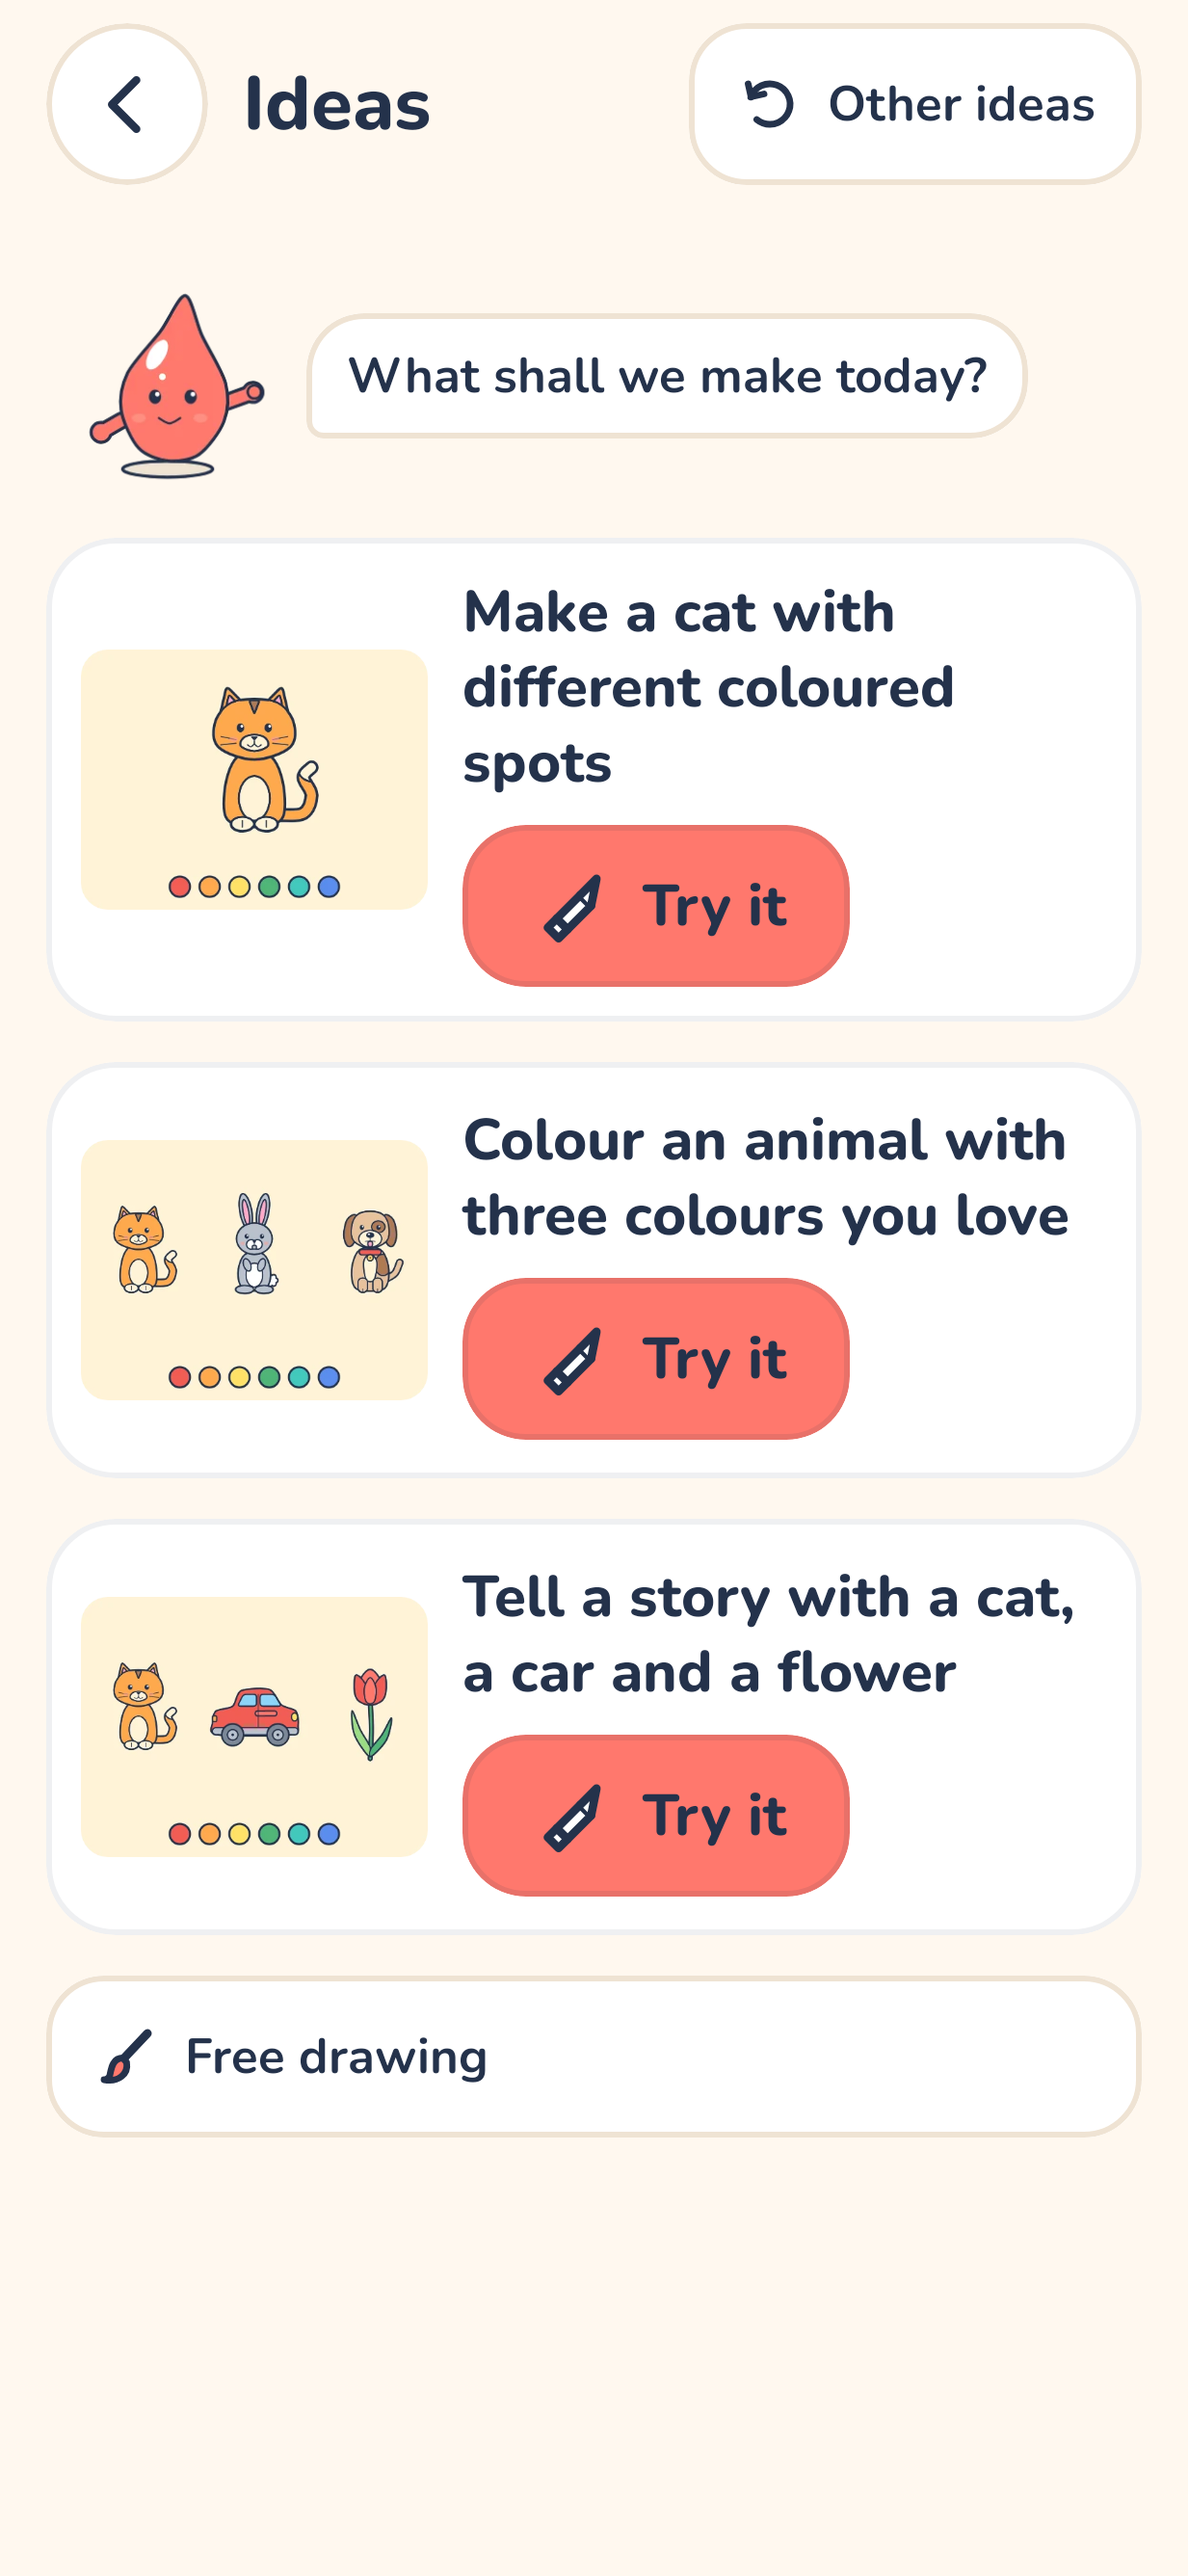
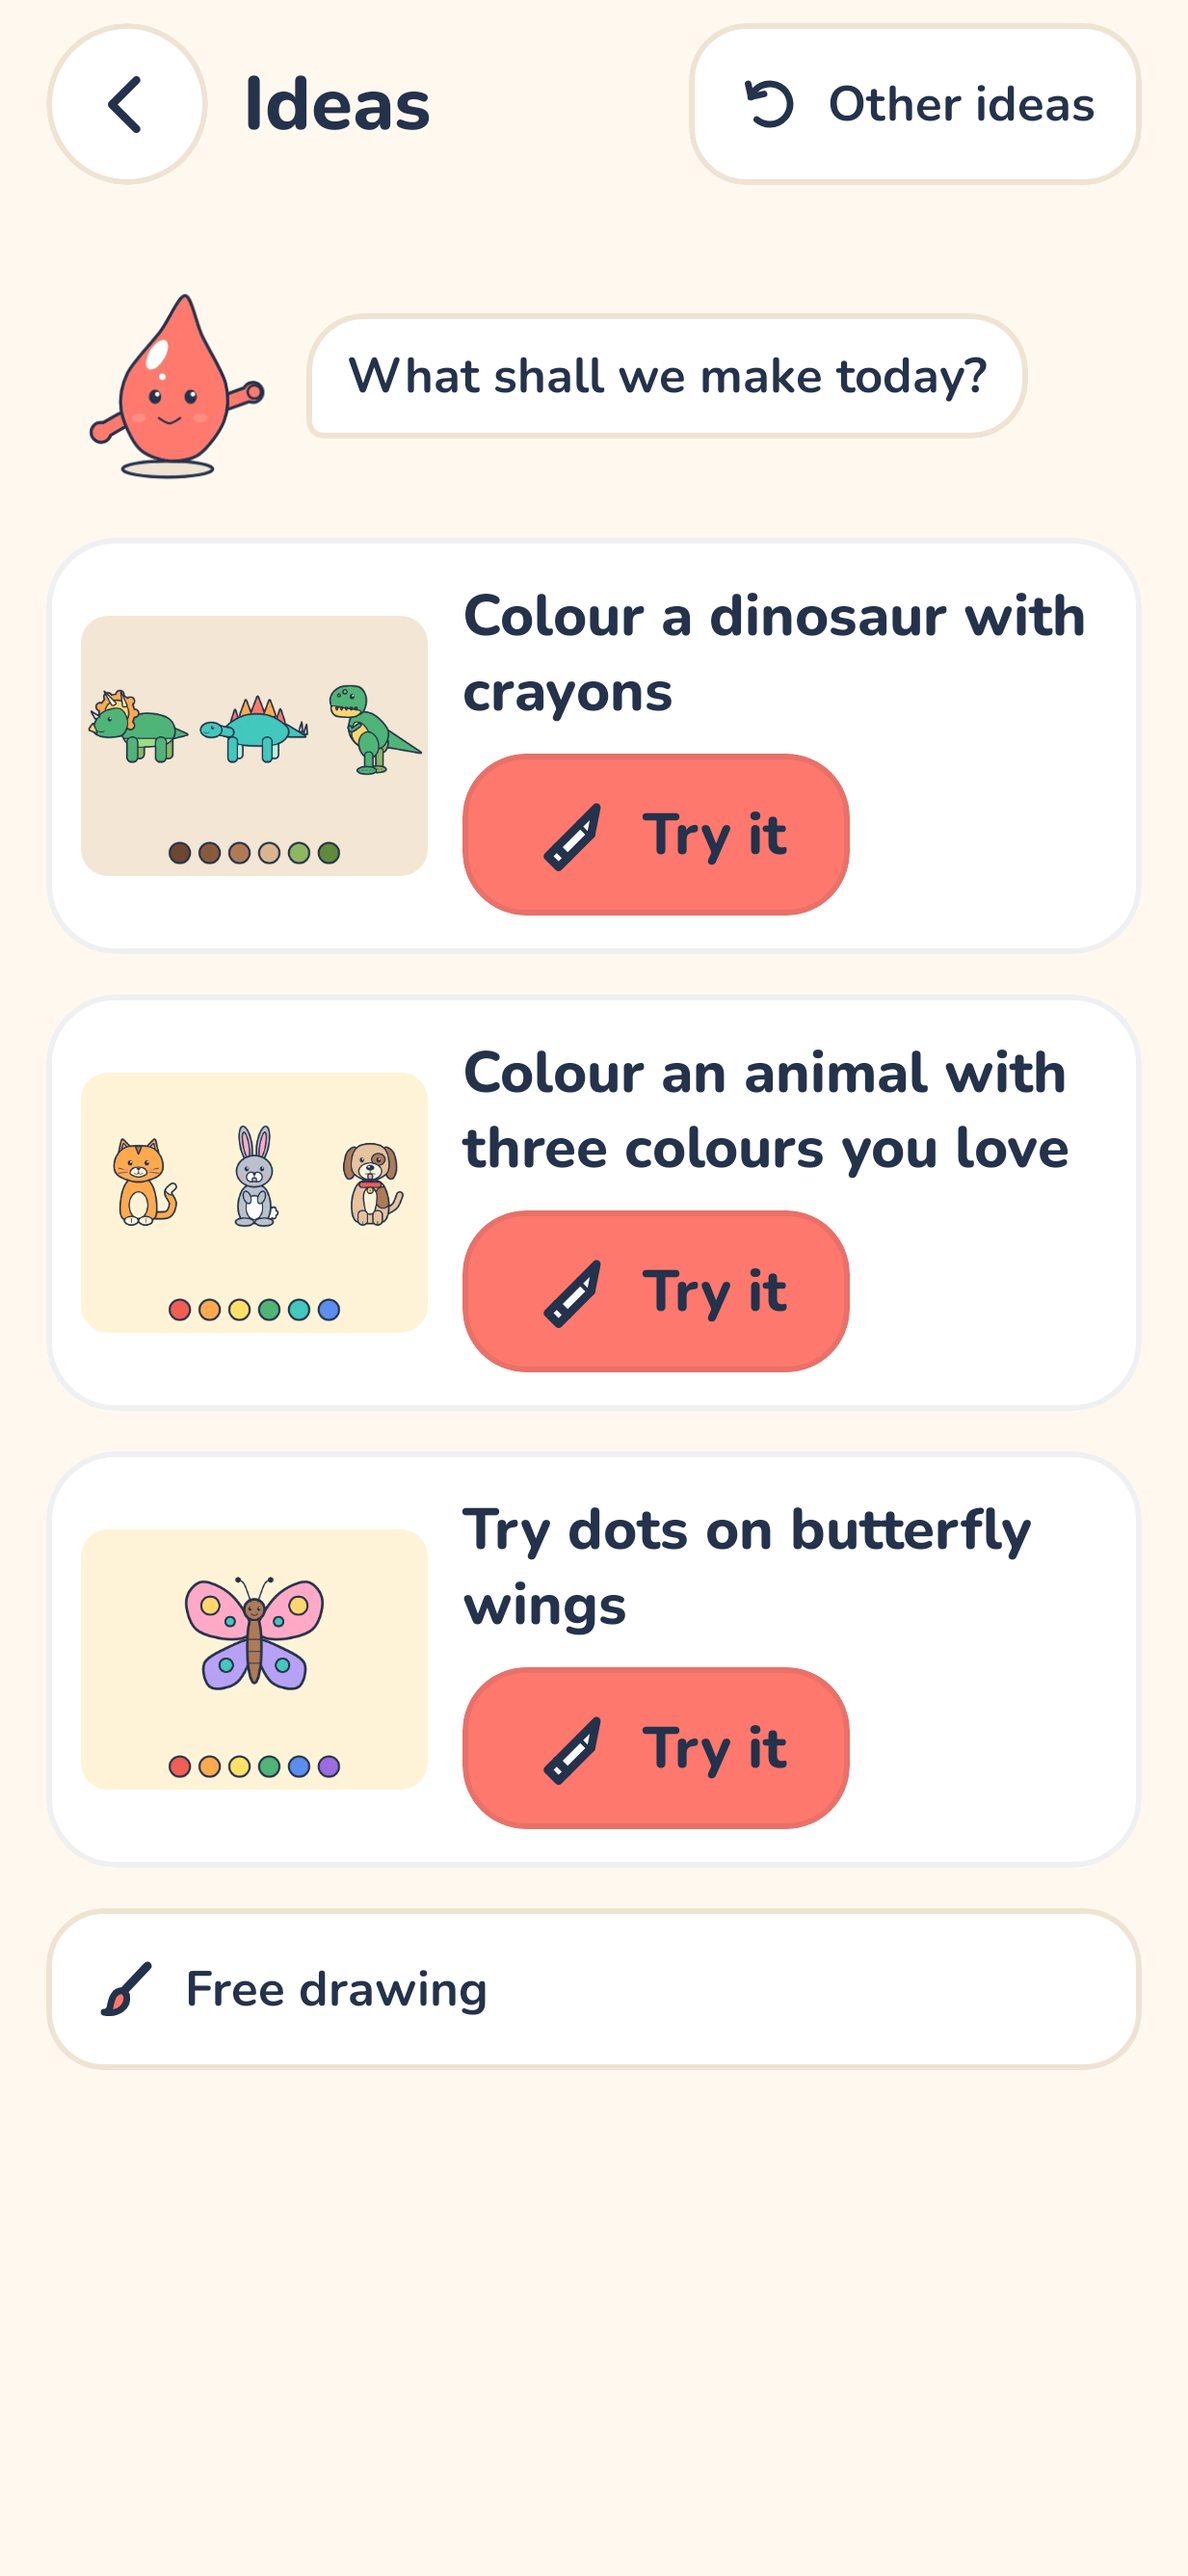
Parent area: load profile list synchronously so it is present on the first frame
Claude-Session: https://claude.ai/code/session_01G5NbVPF5mNBPZwyBWe8Ug5

Changed region(s): [[0.0616, 0.2174, 0.9246, 0.5589], [0.0308, 0.59, 0.8938, 0.8073], [0.9246, 0.7452, 0.9862, 0.8073]]

diff --git a/app/src/main/java/com/colora/world/ui/screens/ParentScreens.kt b/app/src/main/java/com/colora/world/ui/screens/ParentScreens.kt
@@ -178,7 +178,8 @@ fun ParentScreen(state: AppState) {
     val g = ctx.graph
     val scope = rememberCoroutineScope()
     val v by g.settings.values.collectAsState()
-    var profiles by remember { mutableStateOf<List<ChildProfile>>(emptyList()) }
+    // a handful of tiny JSON files: read directly so the list is there on the first frame
+    var profiles by remember { mutableStateOf(g.library.profiles()) }
     var trash by remember { mutableStateOf<List<TrashRecord>>(emptyList()) }
     var stats by remember { mutableStateOf(listOf(0, 0, 0)) }
     var storage by remember { mutableLongStateOf(0L) }
